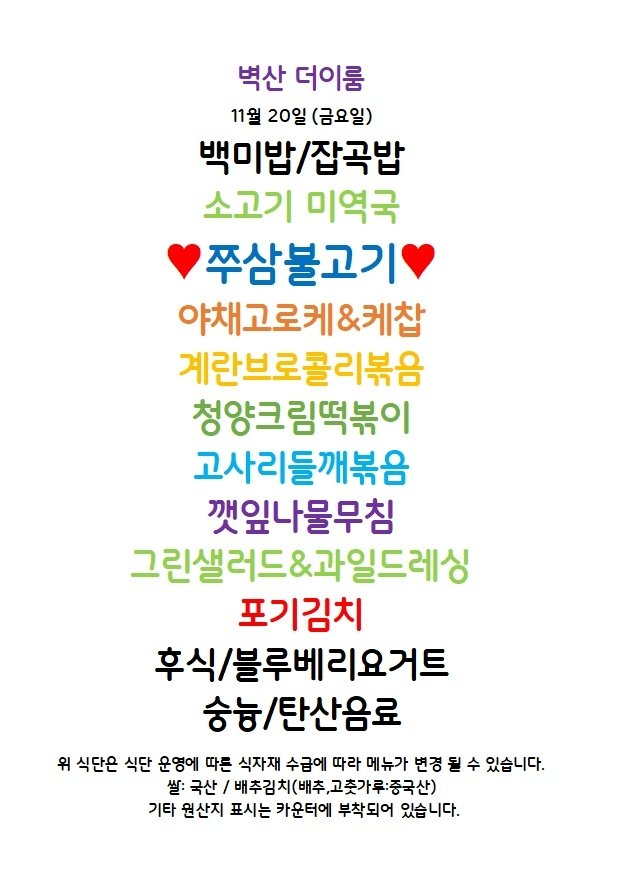
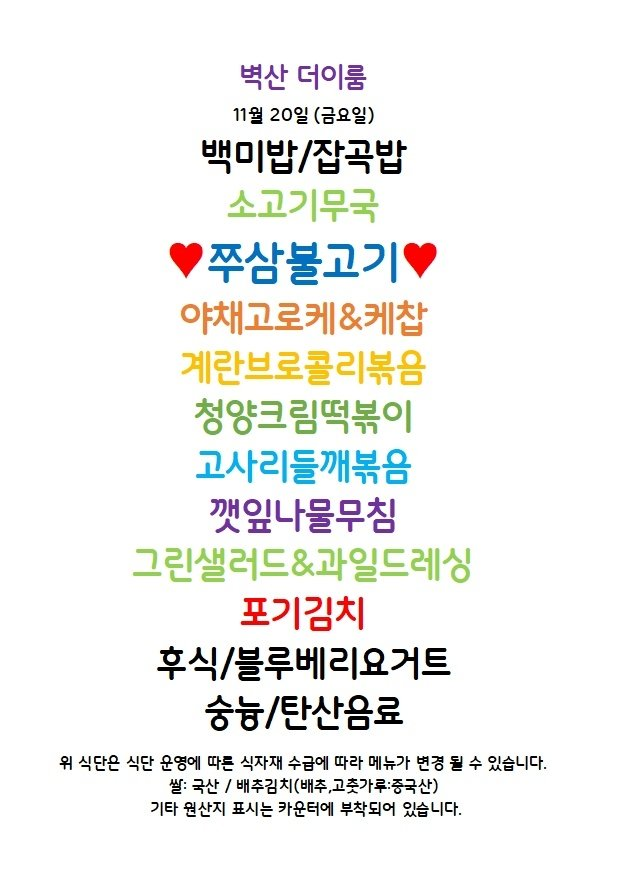
Update menu board assets

Changed region(s): [[0.0919, 0.0614, 0.8887, 0.9522]]

diff --git a/guro-menu/index.html b/guro-menu/index.html
@@ -32,7 +32,7 @@
   </header>
   <section class="meta">
     <div><small>기준 날짜</small><strong>2026년 11월 20일 금요일</strong></div>
-    <div><small>최종 갱신</small><strong>2026-11-20 10:41:07</strong></div>
+    <div><small>최종 갱신</small><strong>2026-11-20 10:52:14</strong></div>
     <div><small>등록 식당</small><strong>5개</strong></div>
   </section>
   <div class="notice">공개 카카오 채널의 메뉴 이미지를 자동 수집하고 OCR로 정리합니다. 텍스트에 오타가 있을 수 있으니 식단 이미지를 함께 확인해 주세요.</div>
@@ -90,7 +90,7 @@
         </div>
         <img class="menu-image" src="./images/byucksan-theirum.png" alt="벽산더이룸 식단 이미지" loading="lazy">
         
-        <ul><li>백미밥/잡곡밥</li><li>$쑤삼불고기</li><li>야채고로케&amp;케잡</li><li>청양크림떡볶이</li><li>고사리들깨볶음</li><li>포기김치</li><li>후식/블루베리요거트</li><li>숭늉/탄산음료</li><li>WE 국산 / 배추김치(배추,고촛가루:중국산)</li><li>기타 원산지 표시는 카운터에 부착되어 있습니다</li></ul>
+        <ul><li>백미밥/잡곡밥</li><li>야채고로케&amp;케잡</li><li>청양크림떡볶이</li><li>고사리들깨볶음</li><li>포기김치</li><li>후식/블루베리요거트</li><li>숭늉/탄산음료</li><li>쌀: 국산 / 배추김치(배주,고주가루:중국산)</li><li>기타 원산지 표시는 카운터에 부착되어 있습니다</li></ul>
       </article>
 
       <article class="restaurant-card">

diff --git a/menu-today/index.html b/menu-today/index.html
@@ -209,7 +209,7 @@
 
     <section class="meta-bar">
       <div class="meta-card"><div class="meta-label">기준 날짜</div><div class="meta-value">2026년 11월 20일 금요일</div></div>
-      <div class="meta-card"><div class="meta-label">최종 가져온 시간</div><div class="meta-value">2026-11-20 10:40:53</div></div>
+      <div class="meta-card"><div class="meta-label">최종 가져온 시간</div><div class="meta-value">2026-11-20 10:52:03</div></div>
       <div class="meta-card"><div class="meta-label">확인 완료</div><div class="meta-value">9개 식당</div></div>
       <div class="meta-card"><div class="meta-label">준비중</div><div class="meta-value">3개 채널</div></div>
     </section>
